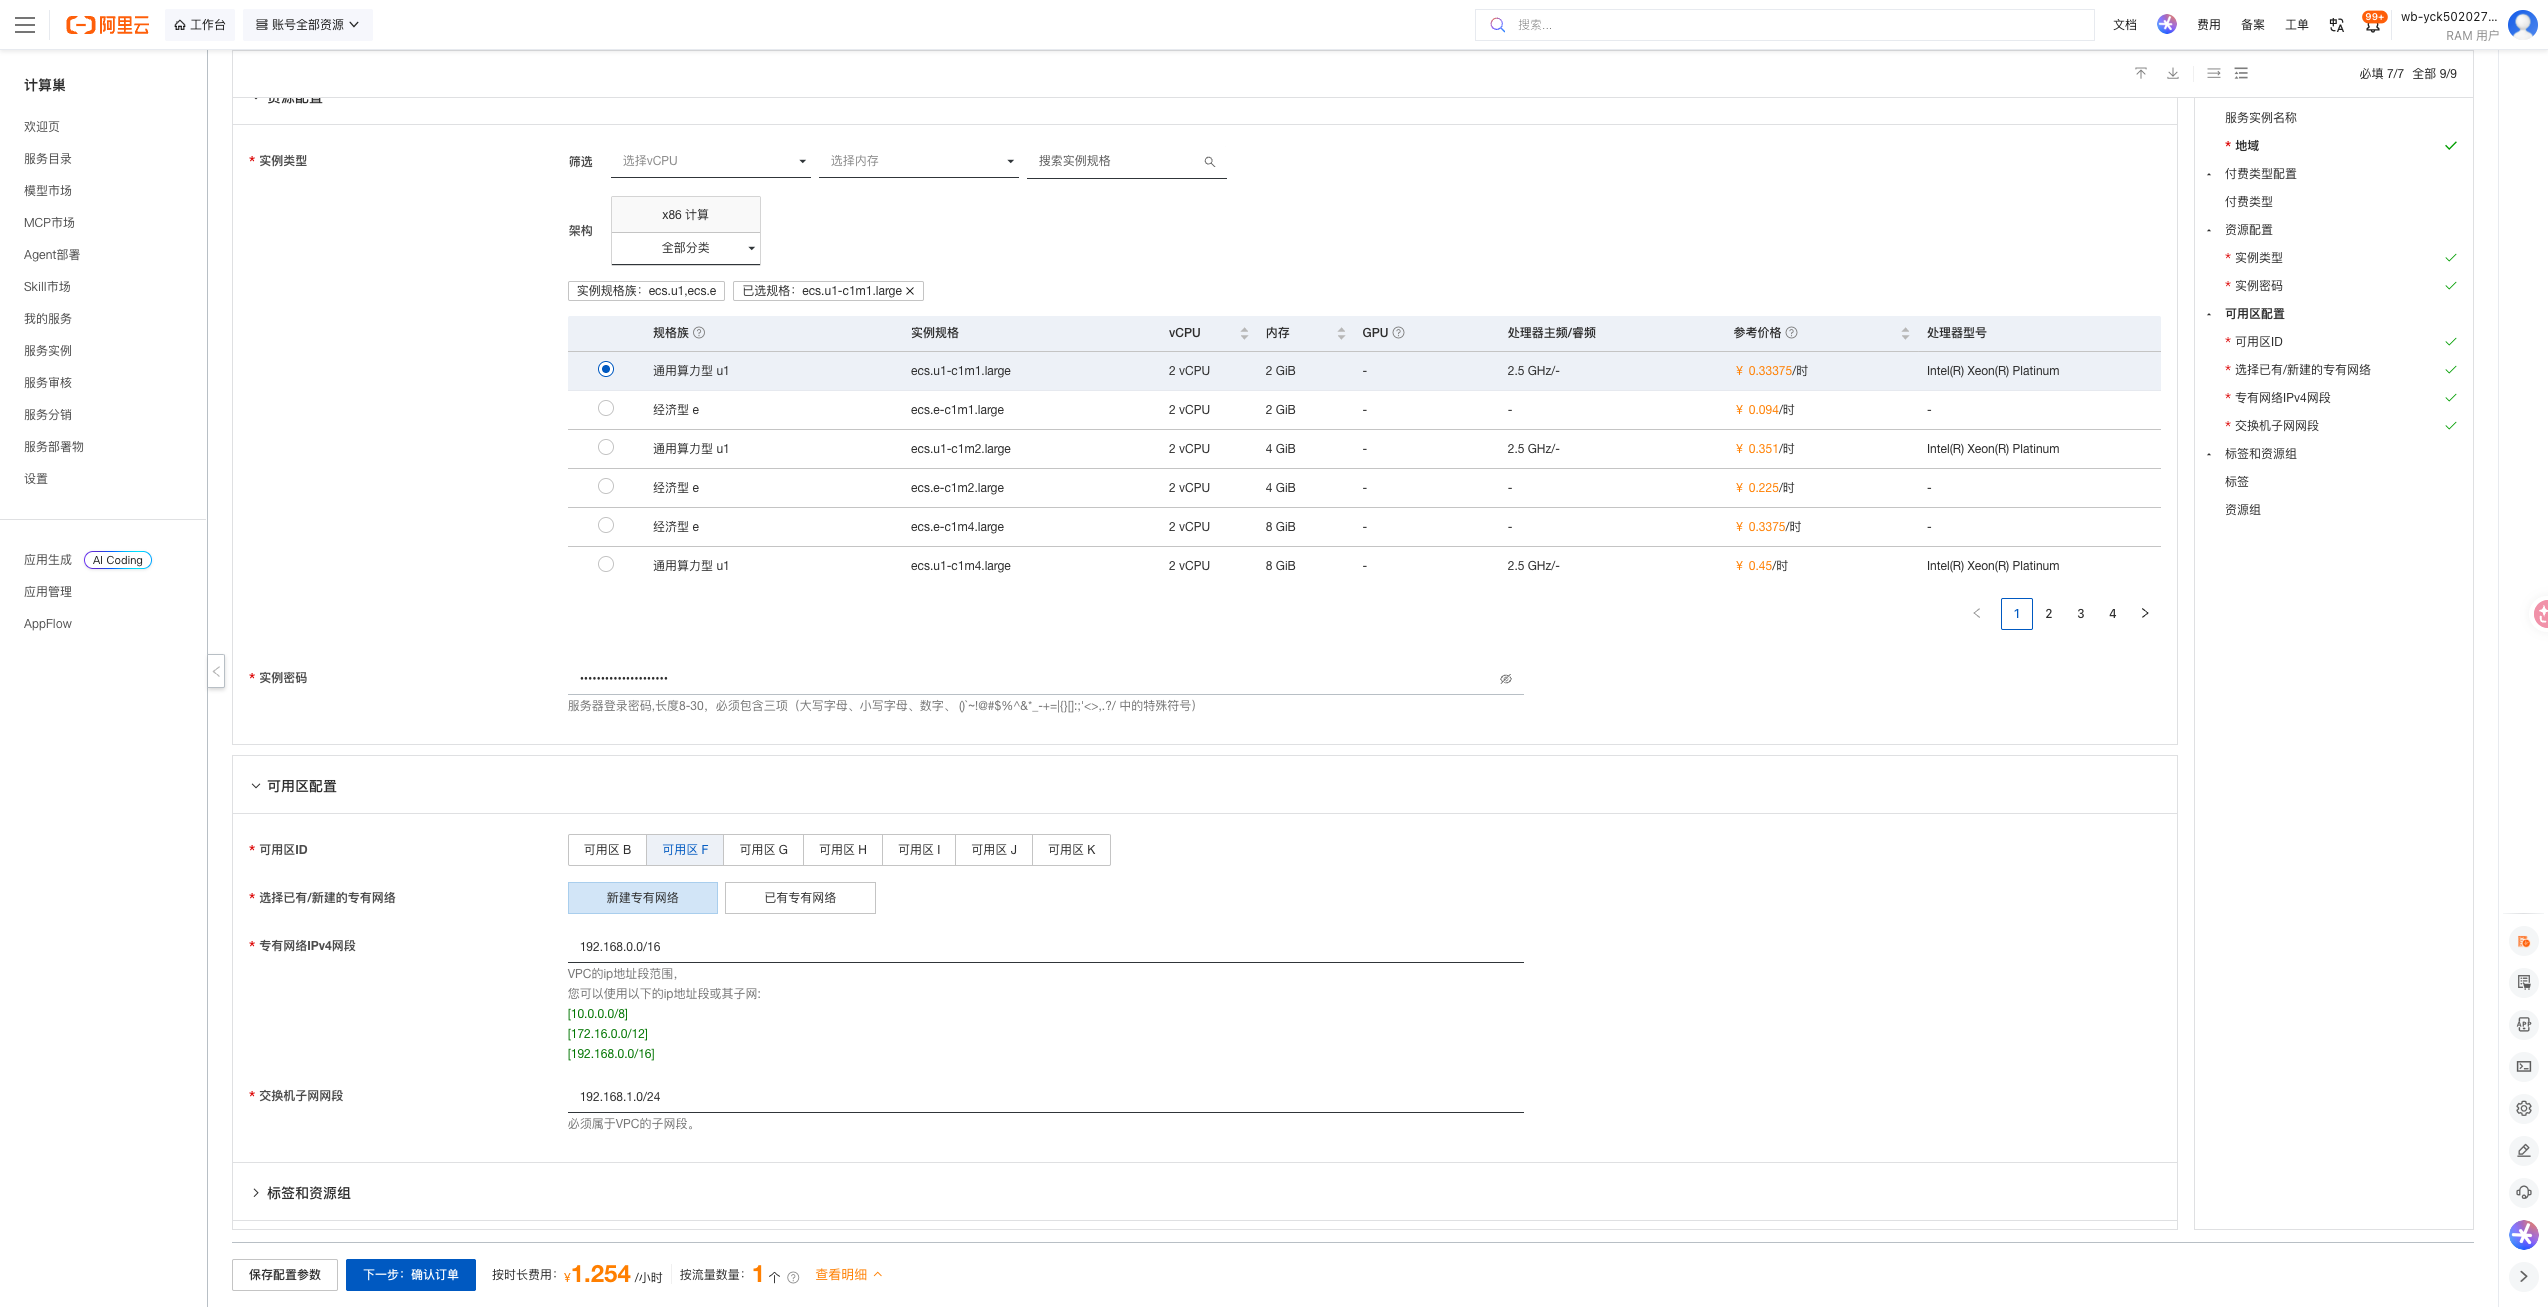
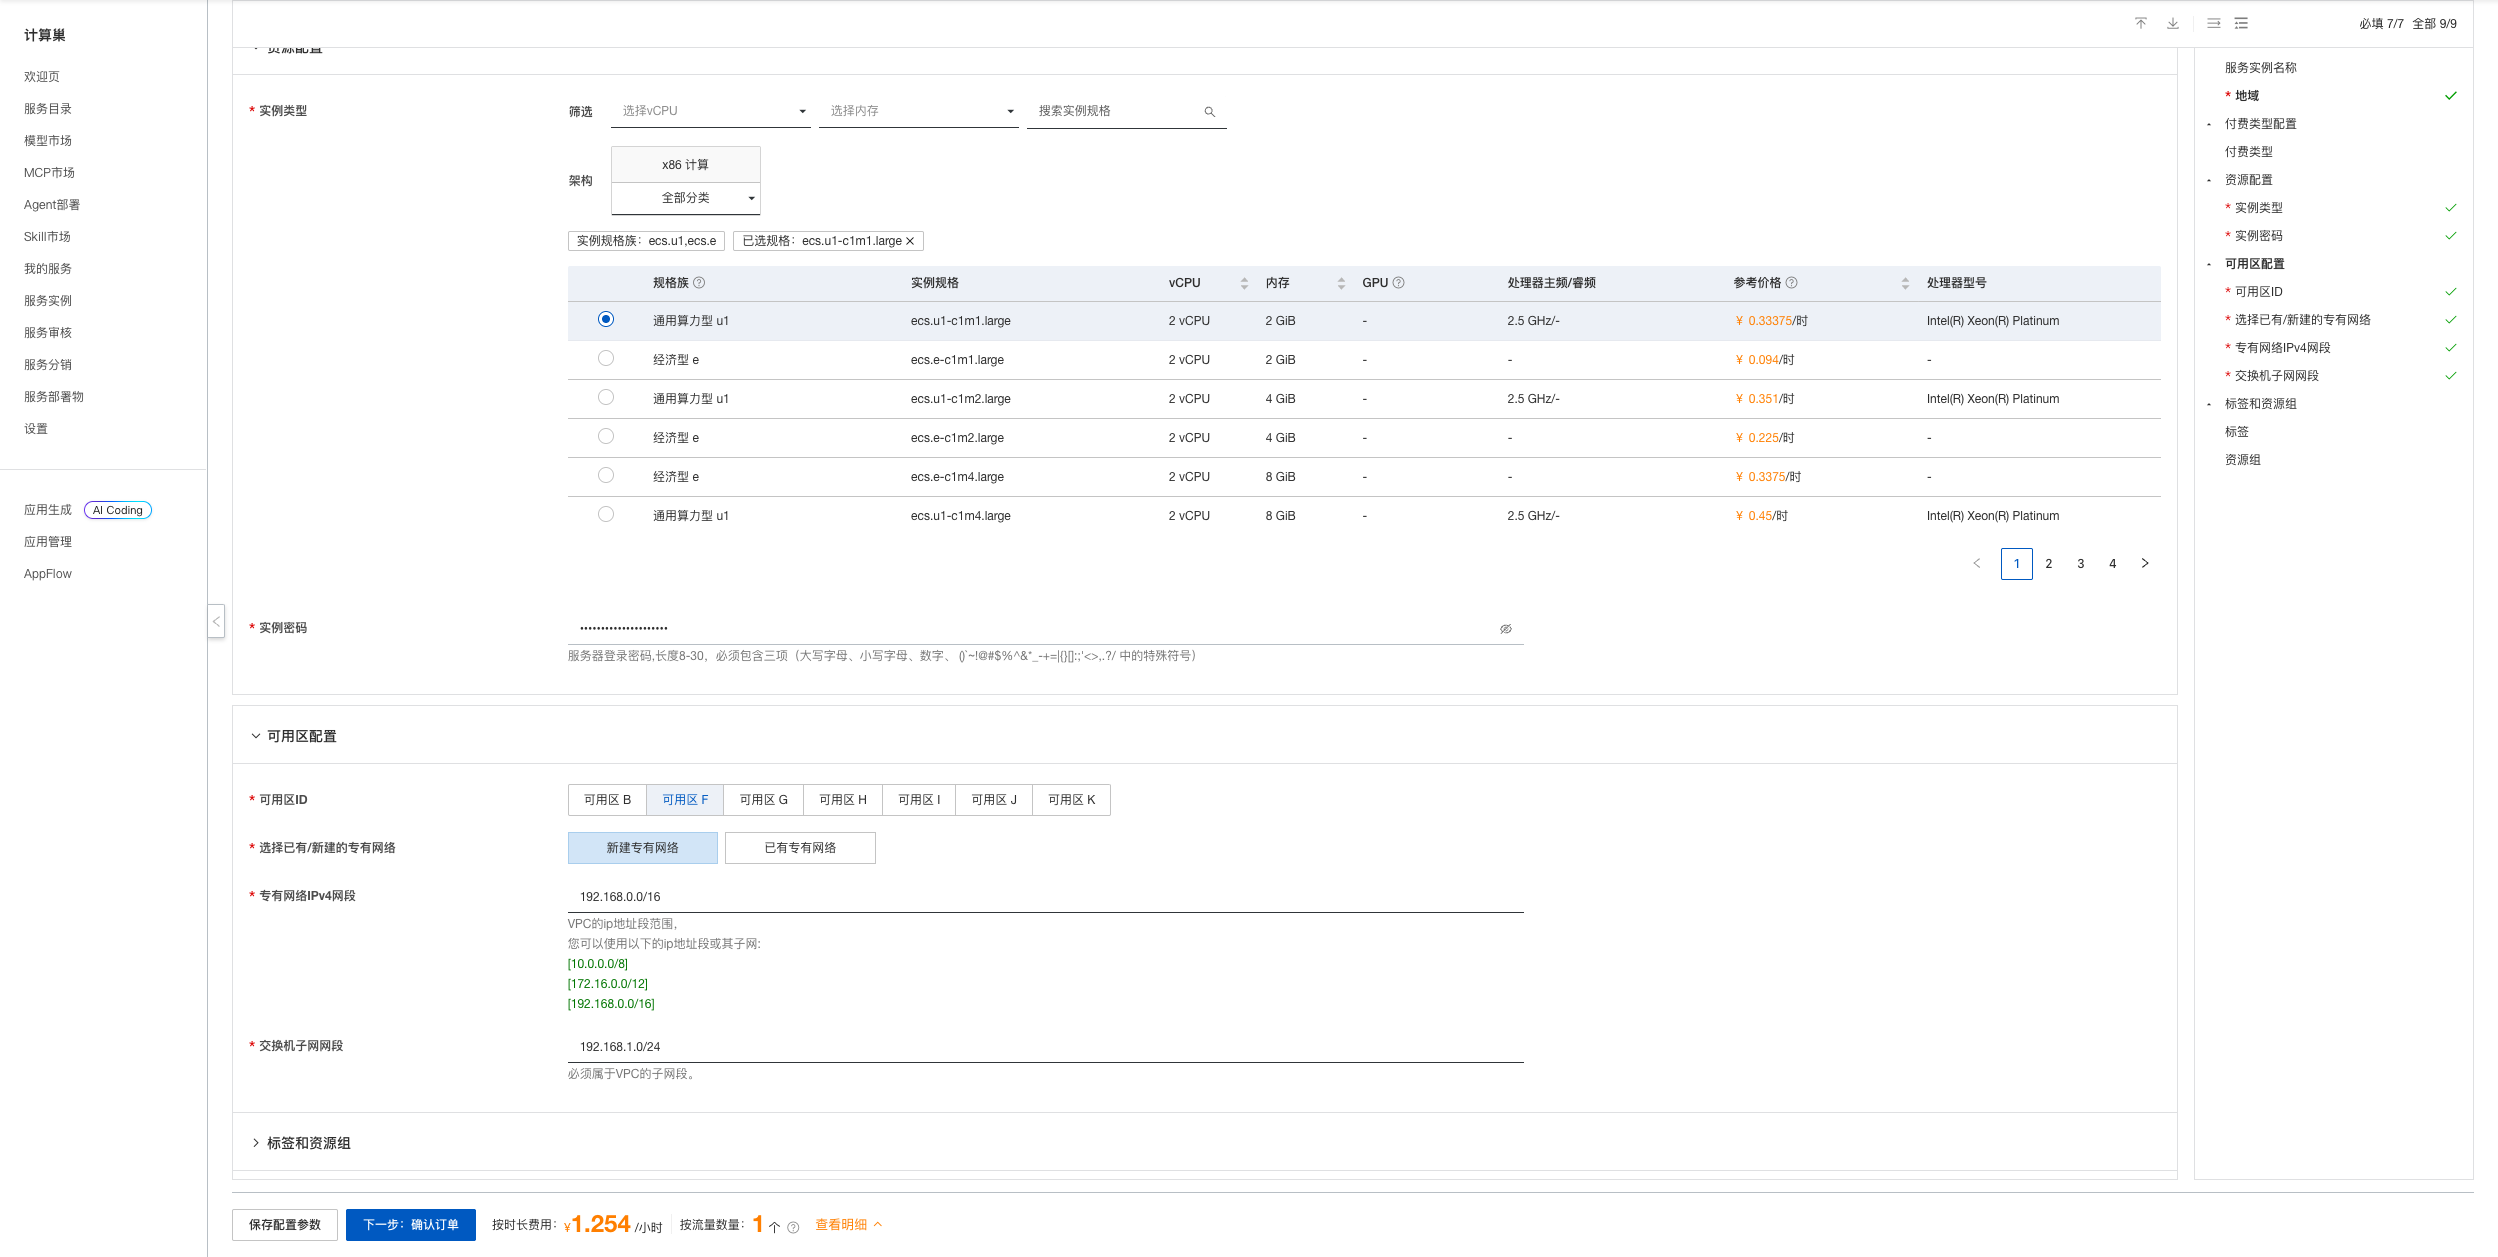
docs: simplify deployment guide and crop console screenshots

diff --git a/docs/deployment-doc.md b/docs/deployment-doc.md
@@ -13,40 +13,6 @@ Trilium 是一款开源的层级化个人知识库与笔记应用，支持无限
 | 数据存储 | ECS `/opt/trilium/trilium-data` |
 | 实测部署耗时 | 约 71 秒 |
 
-## 部署架构
-
-```text
-浏览器
-  │ HTTP 8080
-  ▼
-安全组
-  ▼
-ECS
-  └─ Docker：Trilium
-       └─ /home/node/trilium-data
-          ↕ 持久化挂载
-          /opt/trilium/trilium-data
-```
-
-计算巢通过 ROS 创建 VPC、交换机、安全组和 ECS。Trilium 使用内嵌 SQLite，不会额外创建 RDS 等数据库资源。
-
-## 部署前准备
-
-### 账号与权限
-
-请使用已完成实名认证的阿里云账号，并确保账号可创建以下资源：
-
-- 资源编排 ROS 资源栈；
-- ECS 实例、系统盘与安全组；
-- VPC 和交换机；
-- 计算巢服务实例。
-
-使用 RAM 用户部署时，应由管理员授予上述资源的创建、查询和删除权限。
-
-### 计费说明
-
-部署会创建一台 ECS，并可能产生公网流量费用。费用以创建页实时询价和阿里云账单为准。测试场景建议选择按量付费，并在验证结束后及时删除服务实例。
-
 ## 部署步骤
 
 ### 1. 打开创建页面

diff --git a/docs/index.md b/docs/index.md
@@ -13,40 +13,6 @@ Trilium 是一款开源的层级化个人知识库与笔记应用，支持无限
 | 数据存储 | ECS `/opt/trilium/trilium-data` |
 | 实测部署耗时 | 约 71 秒 |
 
-## 部署架构
-
-```text
-浏览器
-  │ HTTP 8080
-  ▼
-安全组
-  ▼
-ECS
-  └─ Docker：Trilium
-       └─ /home/node/trilium-data
-          ↕ 持久化挂载
-          /opt/trilium/trilium-data
-```
-
-计算巢通过 ROS 创建 VPC、交换机、安全组和 ECS。Trilium 使用内嵌 SQLite，不会额外创建 RDS 等数据库资源。
-
-## 部署前准备
-
-### 账号与权限
-
-请使用已完成实名认证的阿里云账号，并确保账号可创建以下资源：
-
-- 资源编排 ROS 资源栈；
-- ECS 实例、系统盘与安全组；
-- VPC 和交换机；
-- 计算巢服务实例。
-
-使用 RAM 用户部署时，应由管理员授予上述资源的创建、查询和删除权限。
-
-### 计费说明
-
-部署会创建一台 ECS，并可能产生公网流量费用。费用以创建页实时询价和阿里云账单为准。测试场景建议选择按量付费，并在验证结束后及时删除服务实例。
-
 ## 部署步骤
 
 ### 1. 打开创建页面
